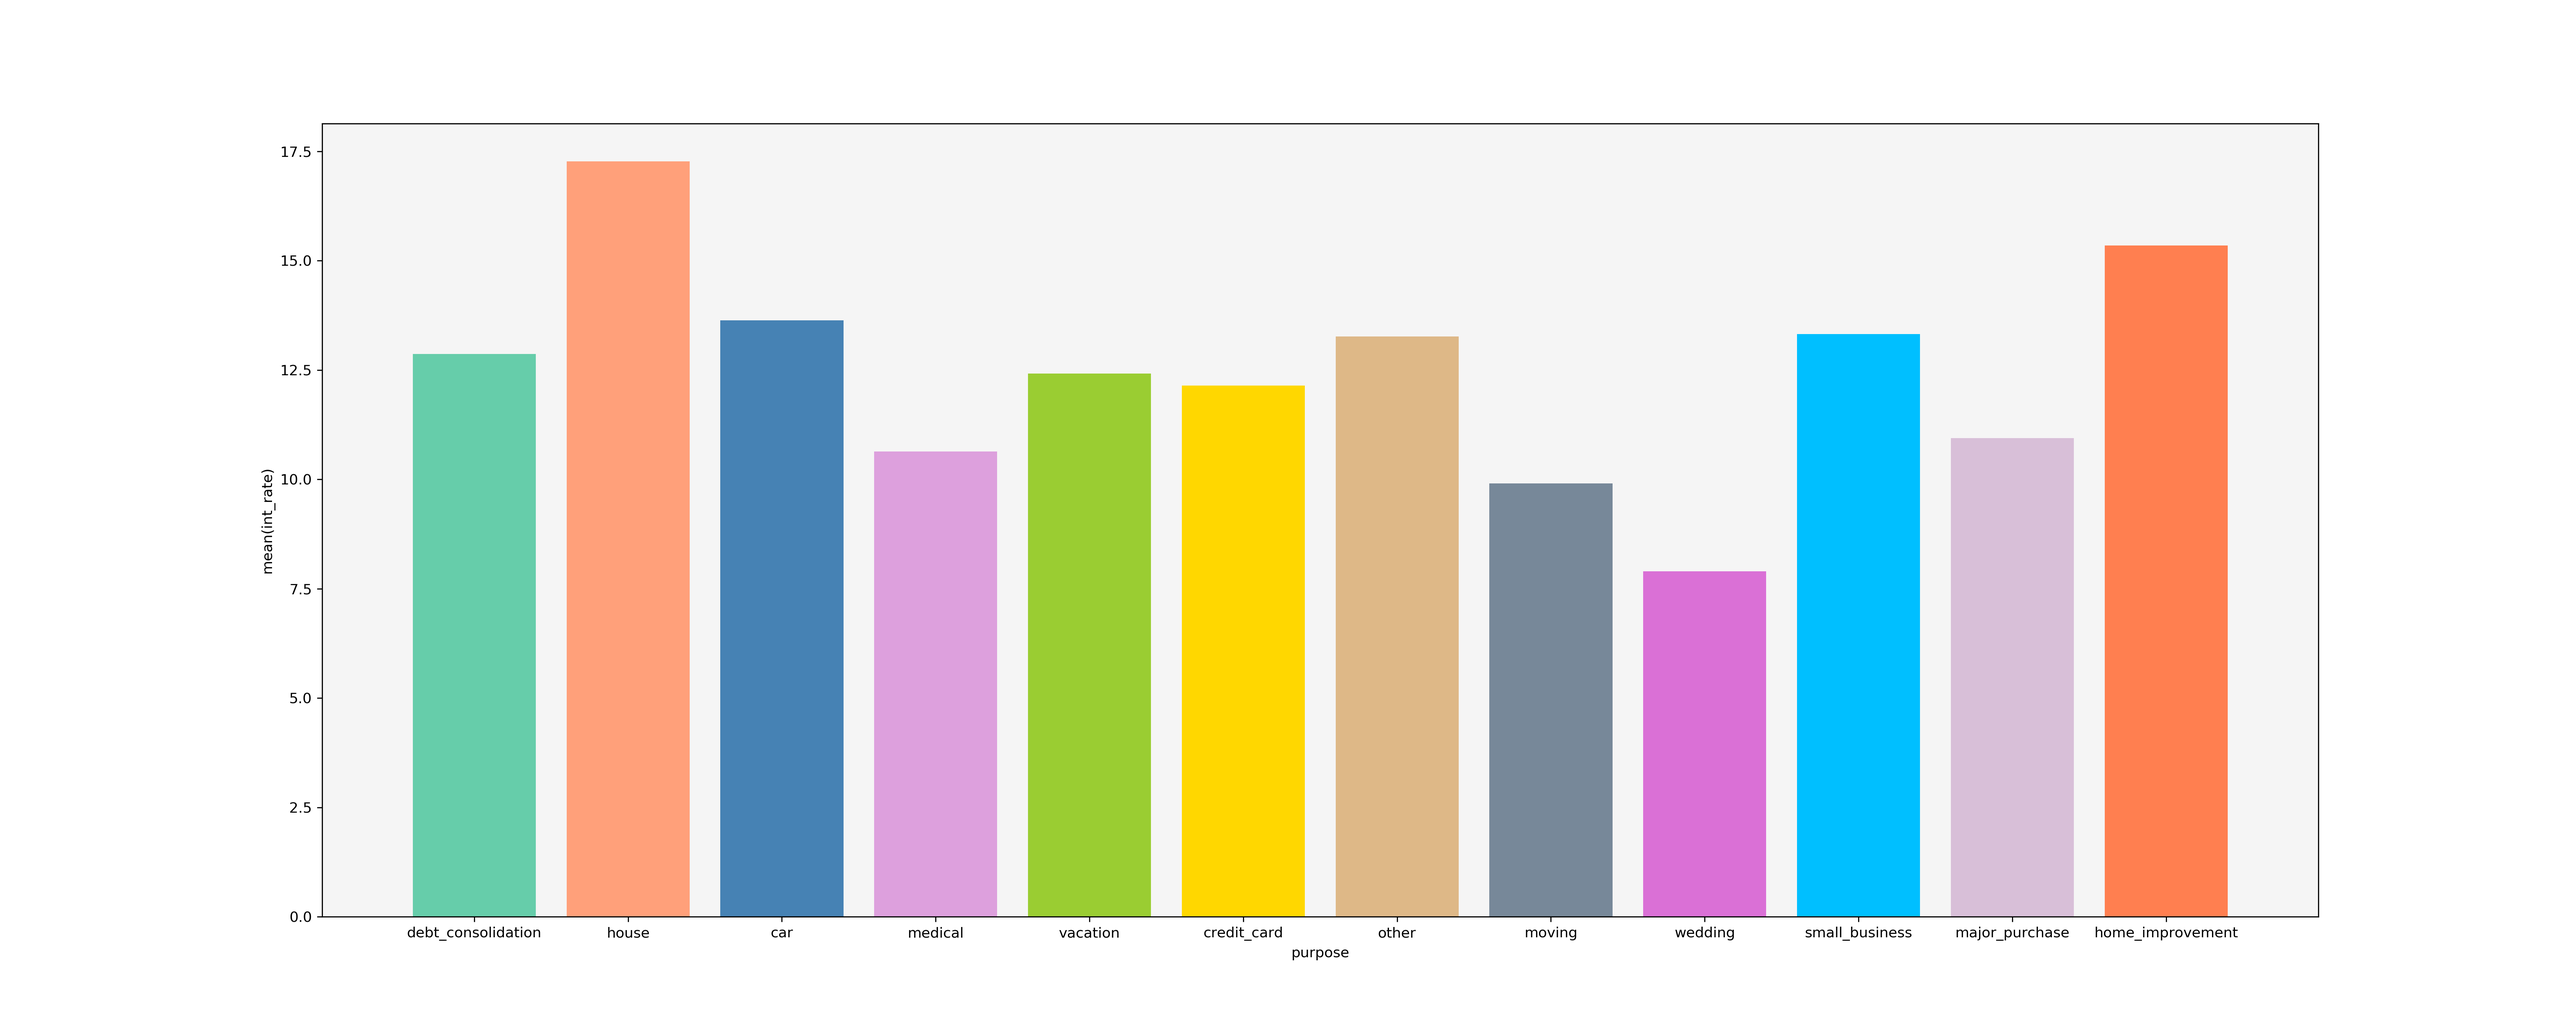
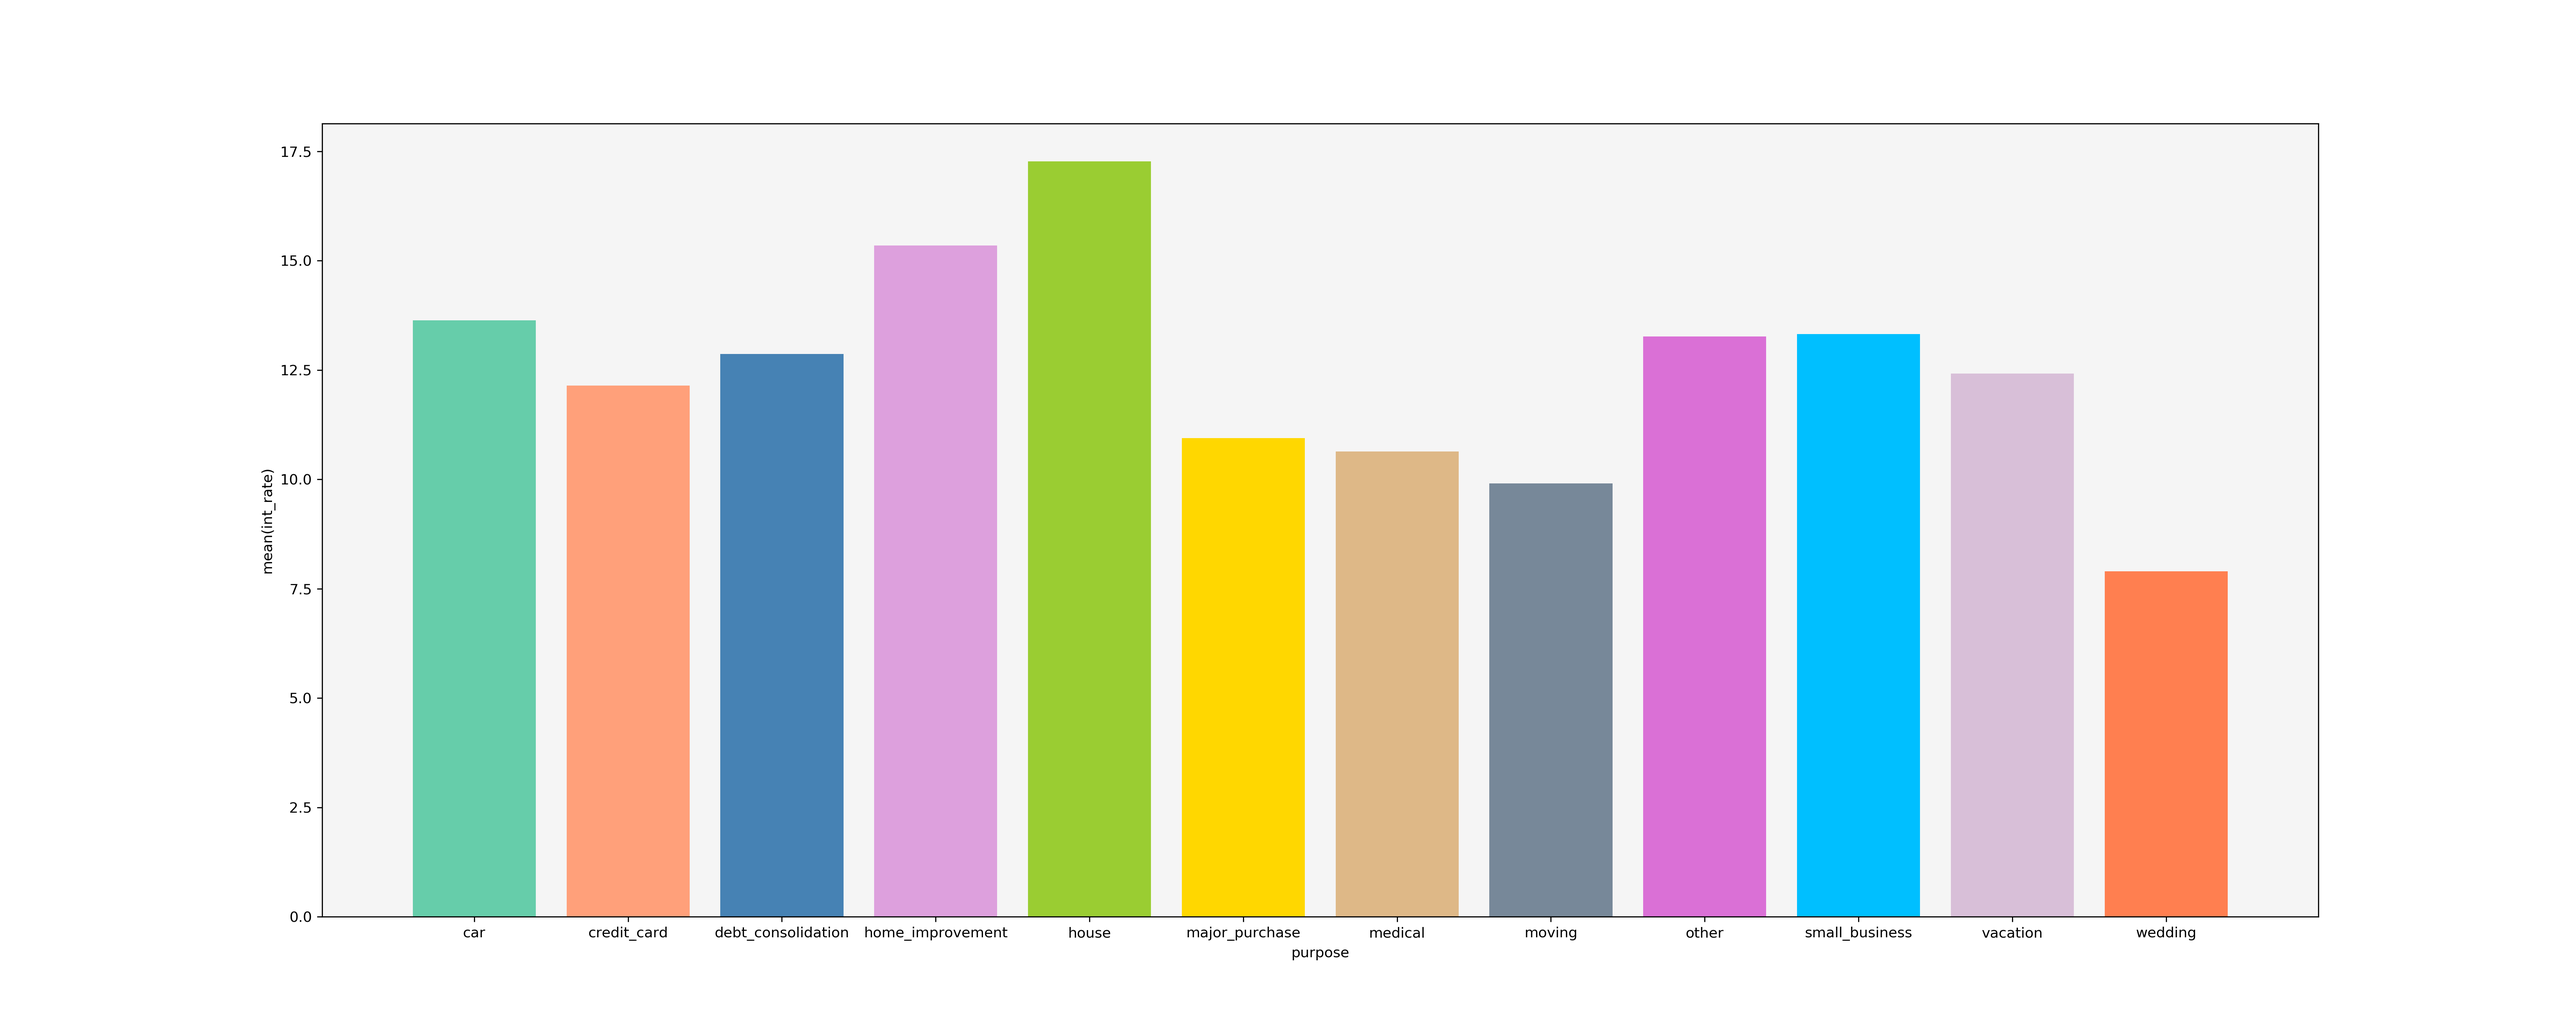
Updated solution

diff --git a/solution.py b/solution.py
@@ -4,6 +4,7 @@ import pandas as pd
 import matplotlib
 matplotlib.use('Agg')
 import matplotlib.pyplot as plt
+import collections
 
 # open csv file and read data
 f = open('data.csv')
@@ -33,7 +34,7 @@ rate_col = 0
 purpose_col = 0
 names = [] # list of unique purposes
 purposes = [] # list of purpose objects
-purposes_rates = {} # dictionary of purpose:avg_rate pairs
+purposes_rates = collections.OrderedDict() # ordered dictionary of purpose:avg_rate pairs
 
 # loop through csv file to determine int_rate column and purpose column
 # populate names
@@ -54,6 +55,9 @@ f.seek(0) # return to top of csv file
 # populate purposes with new purpose objects
 for name in names:
     purposes.append(Purpose(name,0.0,0.0,0.0))
+
+# sort purposes alphabetically
+purposes.sort(key=lambda purpose: purpose.name, reverse=False)
 
 # populate purposes_rates with purpose:avg_rate pairs
 for purpose in purposes:
